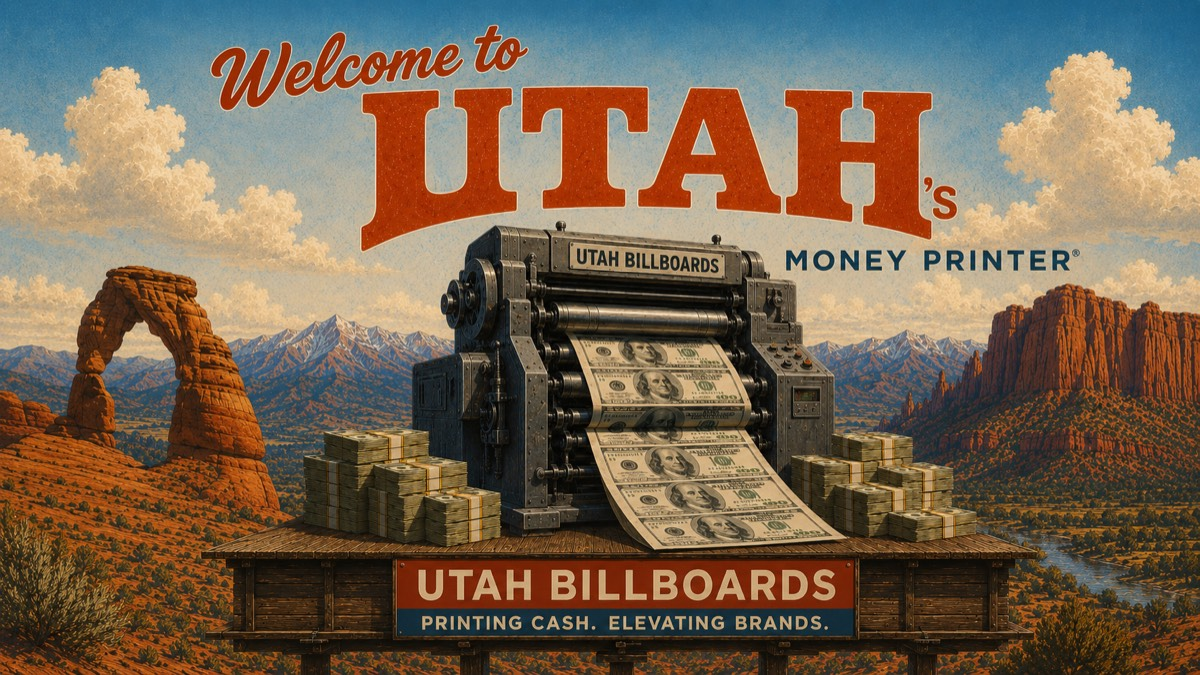
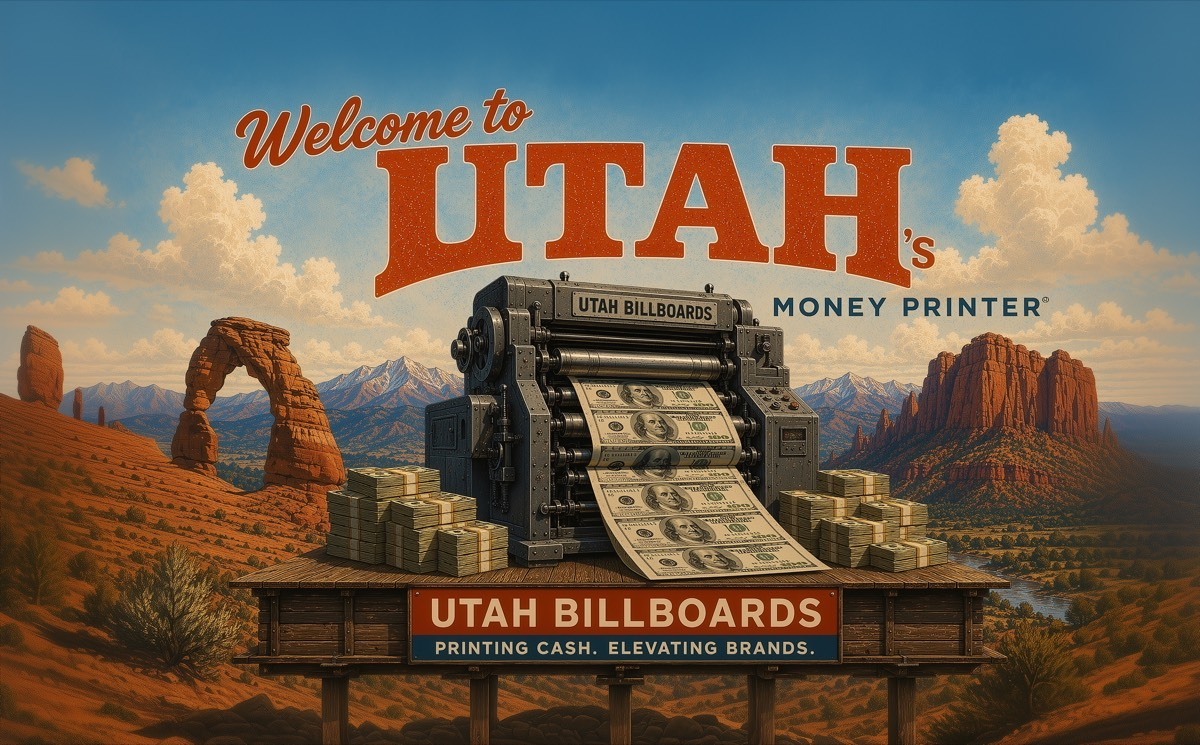
Swap header to higher-res Midjourney money-printer render (2784x1728)

diff --git a/index.html b/index.html
@@ -45,7 +45,7 @@
   body{background:var(--paper);color:var(--ink);font-family:"Spectral","Iowan Old Style","Charter","Georgia",serif;font-size:18px;line-height:1.6;-webkit-font-smoothing:antialiased;-moz-osx-font-smoothing:grayscale;font-feature-settings:"kern" 1,"liga" 1,"calt" 1;text-rendering:optimizeLegibility}
   a{color:inherit;text-decoration:none}
   .cover-image{position:relative;width:100%;margin:0;padding:0;background:#f0ede4;line-height:0;view-transition-name:cover-art}
-  .cover-image img{width:100%;height:auto;display:block}
+  .cover-image img{width:100%;max-width:1800px;height:auto;display:block;margin:0 auto}
   .site-nav{position:absolute;top:0;left:0;right:0;padding:22px 32px;text-align:center;z-index:5;line-height:1;pointer-events:none}
   .site-nav .masthead{font-family:"Spectral",serif;font-style:italic;font-weight:700;font-size:28px;letter-spacing:-.02em;color:var(--ink);margin:0;line-height:1;pointer-events:auto}
   .site-nav .masthead a{color:inherit;text-decoration:none}
@@ -132,7 +132,7 @@
 
 <figure class="cover-image">
   <nav class="site-nav"><h1 class="masthead"><a href="/">Utah Billboards</a></h1></nav>
-  <img src="/header.jpg" width="1672" height="941" alt="Welcome to Utah's money printer — Utah Billboards: printing cash, elevating brands" fetchpriority="high">
+  <img src="/header.jpg" width="2784" height="1728" alt="Welcome to Utah's money printer — Utah Billboards: printing cash, elevating brands" fetchpriority="high">
 </figure>
 
 <div class="modedock" role="group" aria-label="Reading mode">
